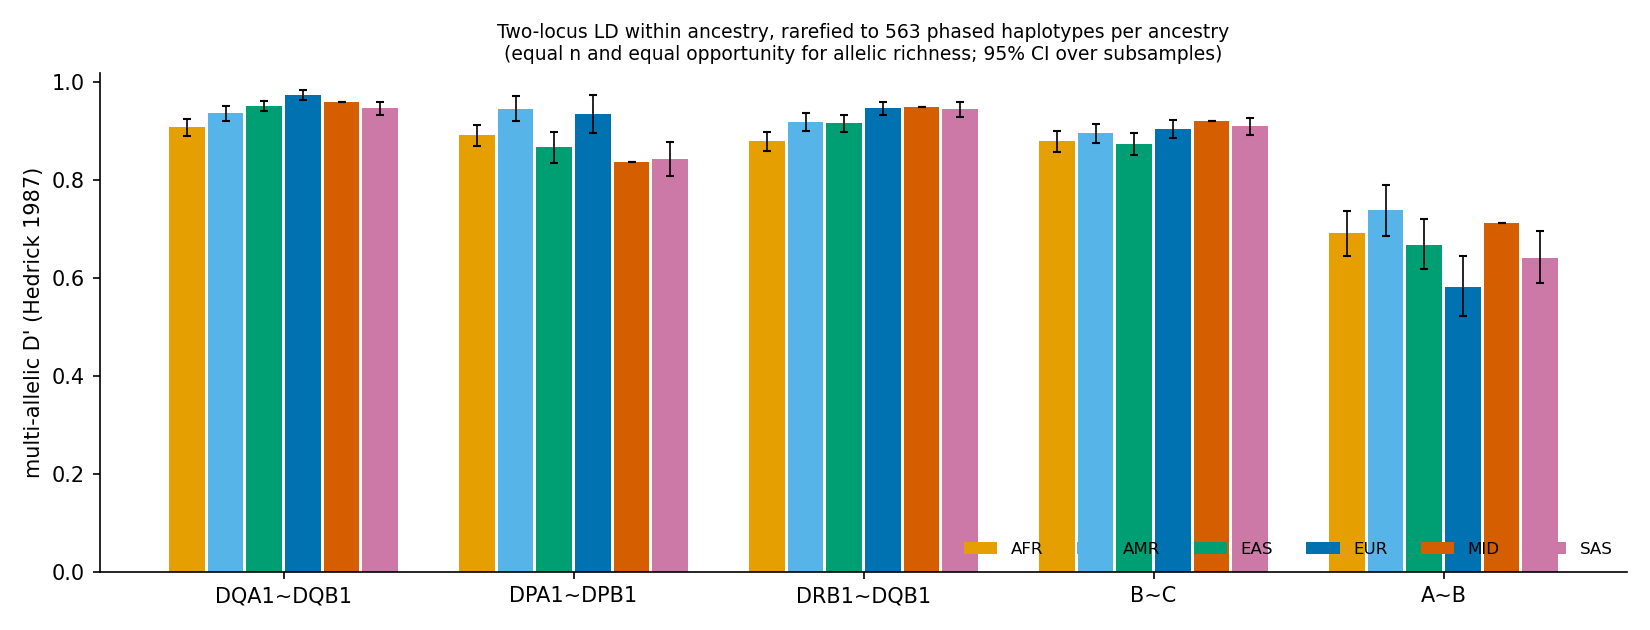
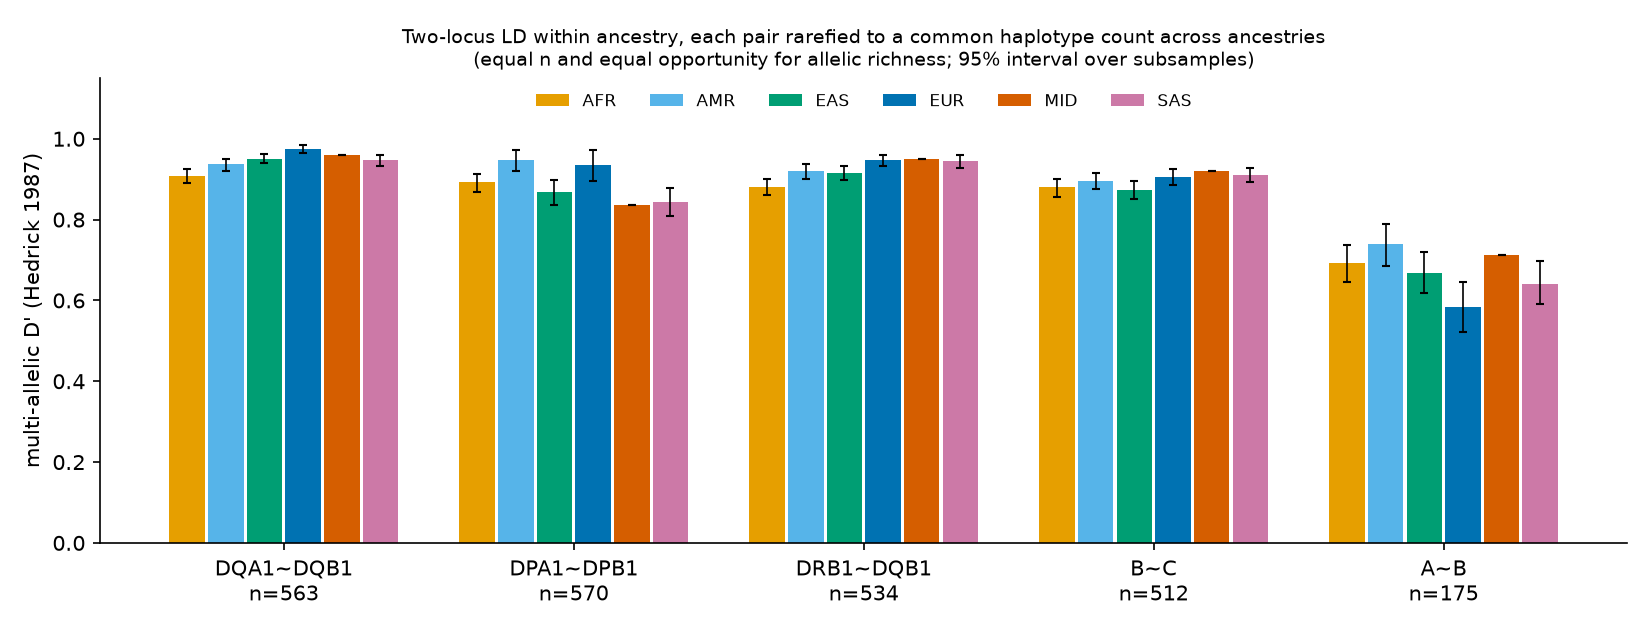
S02: fix the LD figure's rarefaction label and legend placement
Each gene pair is rarefied to its own smallest qualifying ancestry, so the single n in the title
was wrong for four of the five groups. Each pair now carries the n actually used, and the legend
no longer sits on top of the A~B bars.

diff --git a/scripts/hla_popgen/29_hla_ld_by_ancestry.py b/scripts/hla_popgen/29_hla_ld_by_ancestry.py
@@ -389,15 +389,18 @@ def fig_multiallelic(rare_rows, path):
             continue
         ax.bar(xs, ys, width=width * 0.92, color=ANCESTRY_COLORS.get(anc, "#777777"),
                label=anc, yerr=[lo, hi], capsize=2, error_kw={"lw": 0.8})
+    # Each pair is rarefied to ITS OWN smallest qualifying ancestry, so a single n in the title
+    # would be wrong for four of the five groups. Label each pair with the n actually used.
+    per_pair_n = {p: int(df[df["pair"] == p]["rarefied_to"].iloc[0]) for p in pairs}
     ax.set_xticks(range(len(pairs)))
-    ax.set_xticklabels(pairs, rotation=0)
+    ax.set_xticklabels(["%s\nn=%d" % (p, per_pair_n[p]) for p in pairs], rotation=0)
     ax.set_ylabel("multi-allelic D' (Hedrick 1987)")
-    ax.set_ylim(0, 1.02)
-    n_rare = int(df["rarefied_to"].iloc[0]) if "rarefied_to" in df.columns else 0
-    ax.set_title("Two-locus LD within ancestry, rarefied to %d phased haplotypes per ancestry\n"
-                 "(equal n and equal opportunity for allelic richness; 95%% CI over subsamples)"
-                 % n_rare, fontsize=9)
-    ax.legend(frameon=False, ncol=len(ancs), fontsize=8, loc="lower right")
+    ax.set_ylim(0, 1.15)
+    ax.set_title("Two-locus LD within ancestry, each pair rarefied to a common haplotype count "
+                 "across ancestries\n(equal n and equal opportunity for allelic richness; "
+                 "95% interval over subsamples)", fontsize=9)
+    ax.legend(frameon=False, ncol=len(ancs), fontsize=8, loc="upper center",
+              bbox_to_anchor=(0.5, 1.0))
     ax.spines[["top", "right"]].set_visible(False)
     fig.tight_layout()
     fig.savefig(path, dpi=150)
